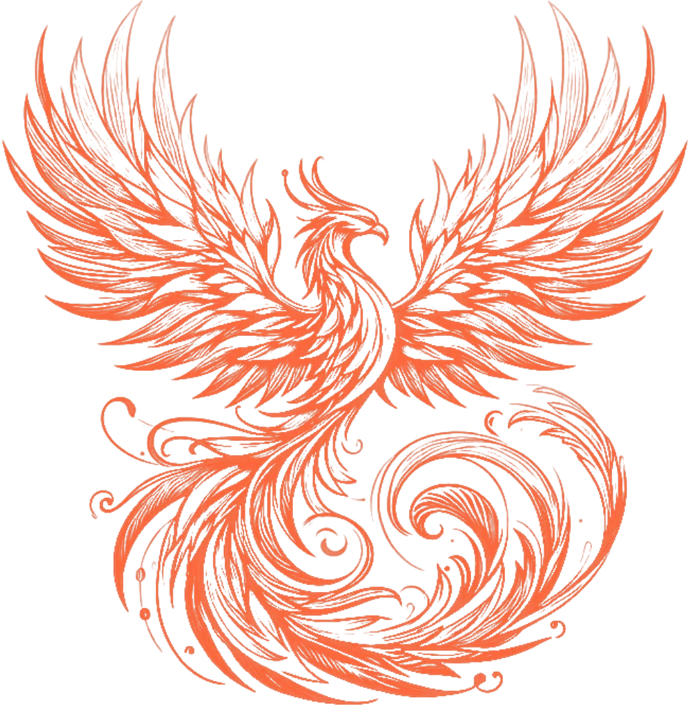
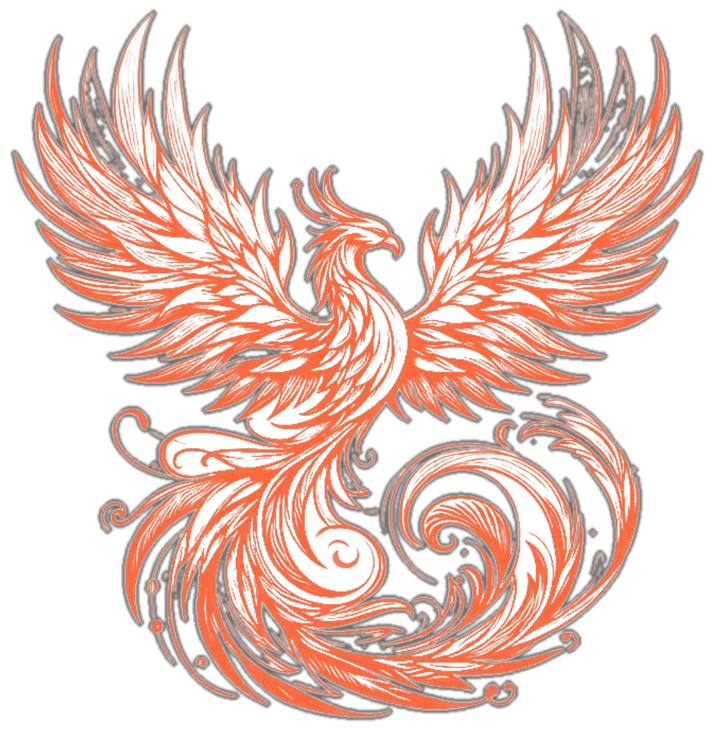
Viền đen chỉ ở chu vi ngoài của hình thánh thú, không viền nét chi tiết
- Vẽ thẳng vào ảnh (cả 2 bộ beasts-member/beasts-guide): silhouette lấp kín -> nở 3px -> vành đen mờ 150 làm mềm cạnh, đặt dưới lớp hình; nét bên trong giữ nguyên.
- Gỡ bỏ 4 lớp drop-shadow viền theo nét ở CSS hai trang (chỉ giữ bóng đổ gốc).

diff --git a/frontend/src/pages/MyTier.css b/frontend/src/pages/MyTier.css
@@ -119,11 +119,7 @@ a.tier-badge { text-decoration: none; }
 .beast-card-art {
   position: absolute; inset: 0; z-index: 1; width: 100%; height: 100%;
   object-fit: contain; padding: 16px 2px 86px; transform: scale(1.07);
-  /* Viền đen mỏng nhẹ bám theo từng nét vẽ cho hình sắc và thanh thoát, sau đó mới tới bóng đổ */
-  filter:
-    drop-shadow(.6px 0 0 rgba(12,8,4,.38)) drop-shadow(-.6px 0 0 rgba(12,8,4,.38))
-    drop-shadow(0 .6px 0 rgba(12,8,4,.38)) drop-shadow(0 -.6px 0 rgba(12,8,4,.38))
-    drop-shadow(0 6px 16px rgba(0,0,0,.5)) drop-shadow(0 0 10px rgba(255,255,255,.25));
+  filter: drop-shadow(0 6px 16px rgba(0,0,0,.5)) drop-shadow(0 0 10px rgba(255,255,255,.25));
 }
 /* Thanh Long và Bạch Hổ phóng to thêm cho lực, xịch xuống để không bị cắt đỉnh */
 .beast-bronze .beast-card-art { transform: scale(1.21) translateY(5.5%); }

diff --git a/frontend/src/pages/TierGuide.css b/frontend/src/pages/TierGuide.css
@@ -101,11 +101,7 @@
 }
 .metal-art img {
   max-width: 96%; max-height: 98%; object-fit: contain;
-  /* Viền đen mỏng nhẹ bám theo từng nét vẽ cho hình sắc và thanh thoát */
-  filter:
-    drop-shadow(.6px 0 0 rgba(12,8,4,.38)) drop-shadow(-.6px 0 0 rgba(12,8,4,.38))
-    drop-shadow(0 .6px 0 rgba(12,8,4,.38)) drop-shadow(0 -.6px 0 rgba(12,8,4,.38))
-    drop-shadow(0 3px 7px rgba(0,0,0,.30));
+  filter: drop-shadow(0 3px 7px rgba(0,0,0,.30));
 }
 /* Rồng và hổ dáng cao hẹp: phóng vừa khít khung, đã kiểm không mất bộ phận */
 .beast-bronze img { transform: scale(1.03); }
